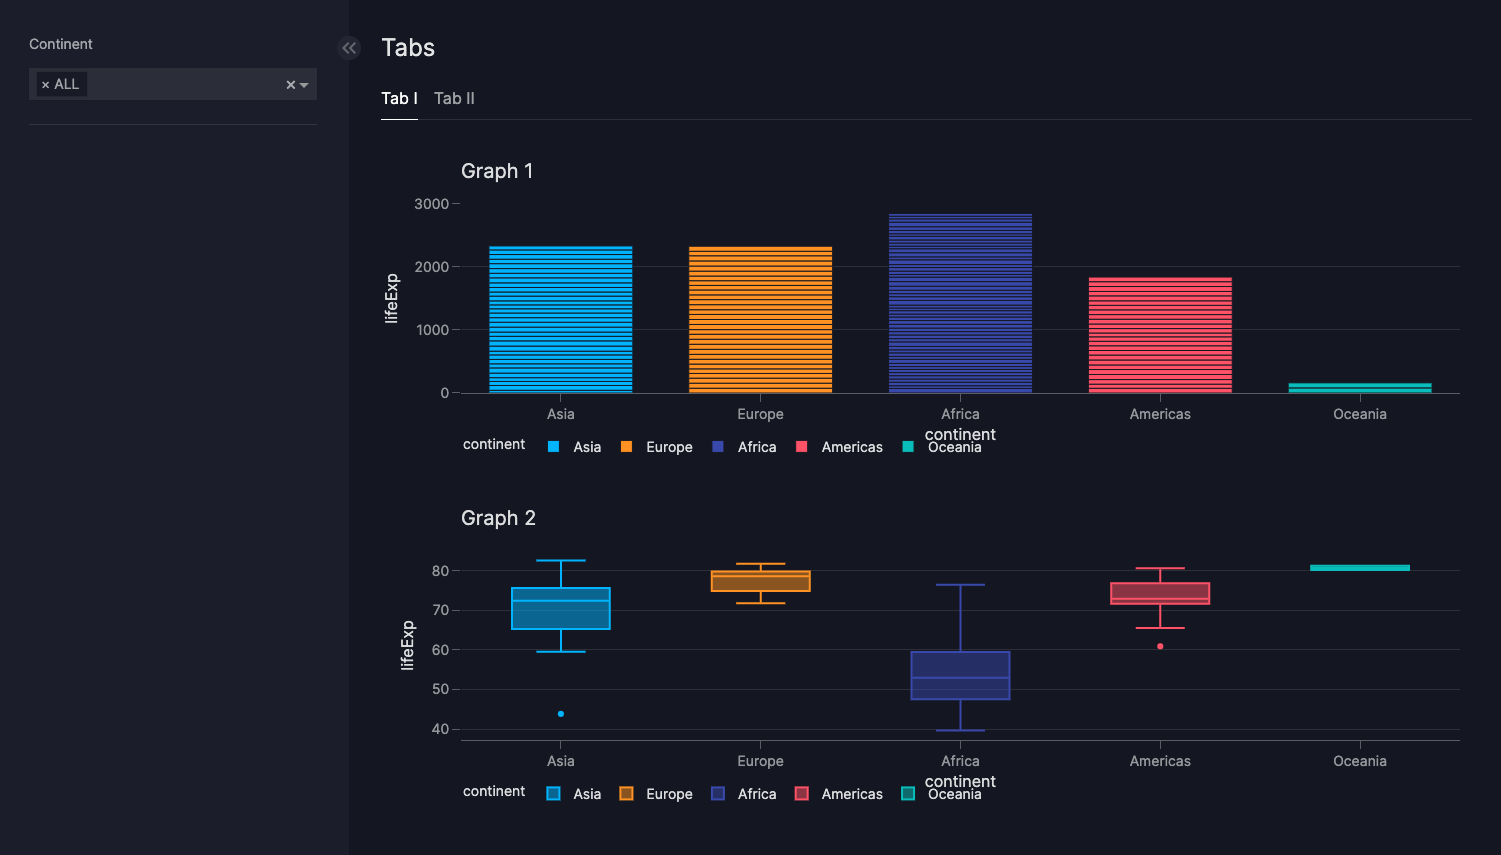
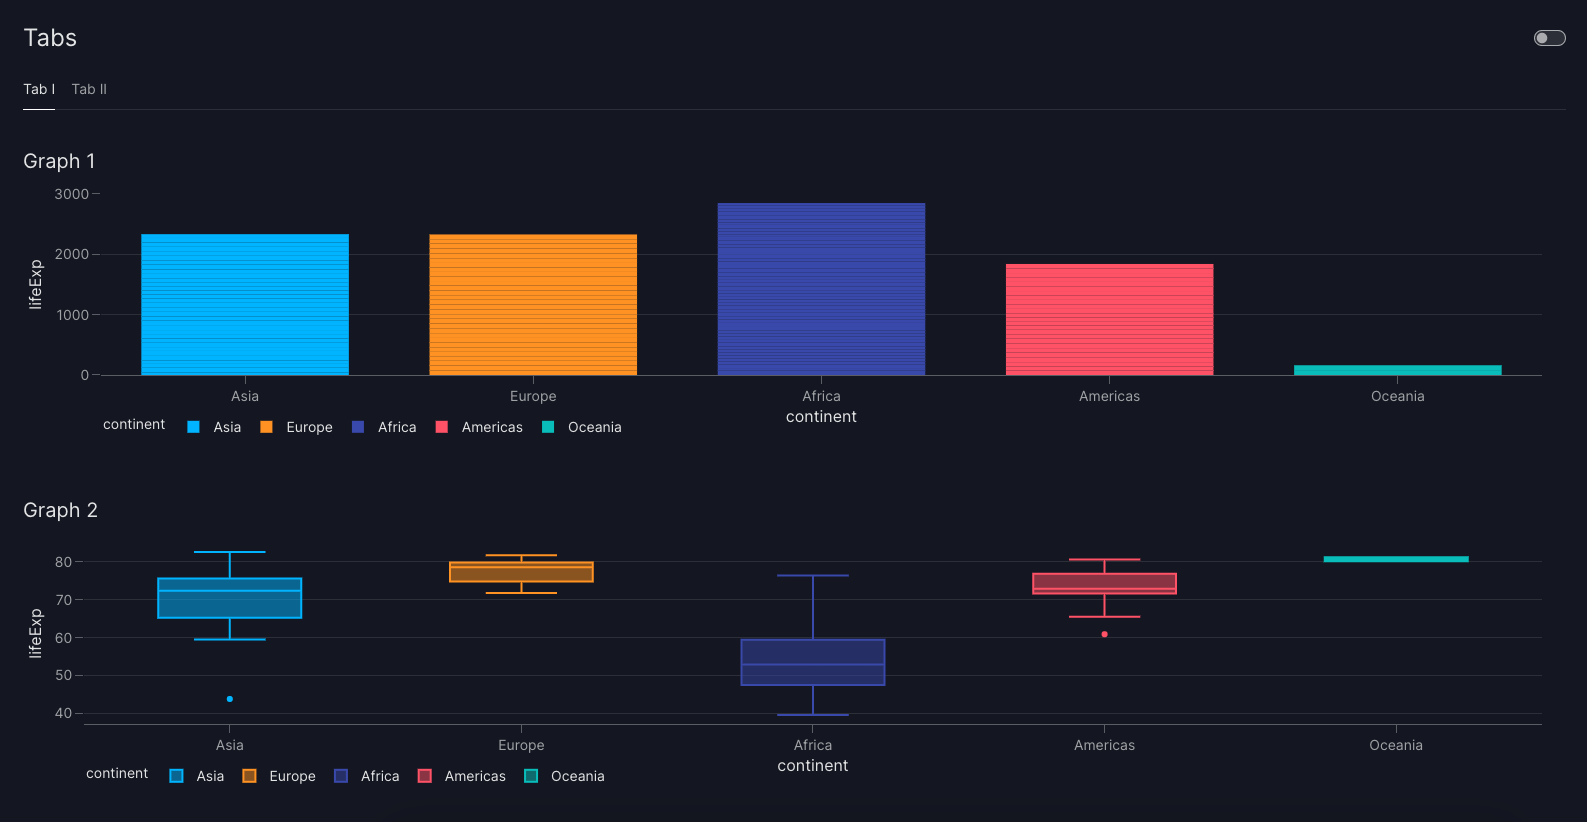
Simplify config and remove controls

diff --git a/vizro-core/docs/pages/user-guides/tabs.md b/vizro-core/docs/pages/user-guides/tabs.md
@@ -82,11 +82,9 @@ To add [`Tabs`][vizro.models.Tabs] to your page, do the following:
                     ],
                 ),
             ],
-            controls=[vm.Filter(column="continent")],
         )
 
         dashboard = vm.Dashboard(pages=[page])
-
         Vizro().build(dashboard).run()
         ```
 
@@ -130,9 +128,6 @@ To add [`Tabs`][vizro.models.Tabs] to your page, do the following:
                         y: lifeExp
                         size: pop
                         color: continent
-          controls:
-            - type: filter
-              column: continent
           title: Tabs
         ```
 
